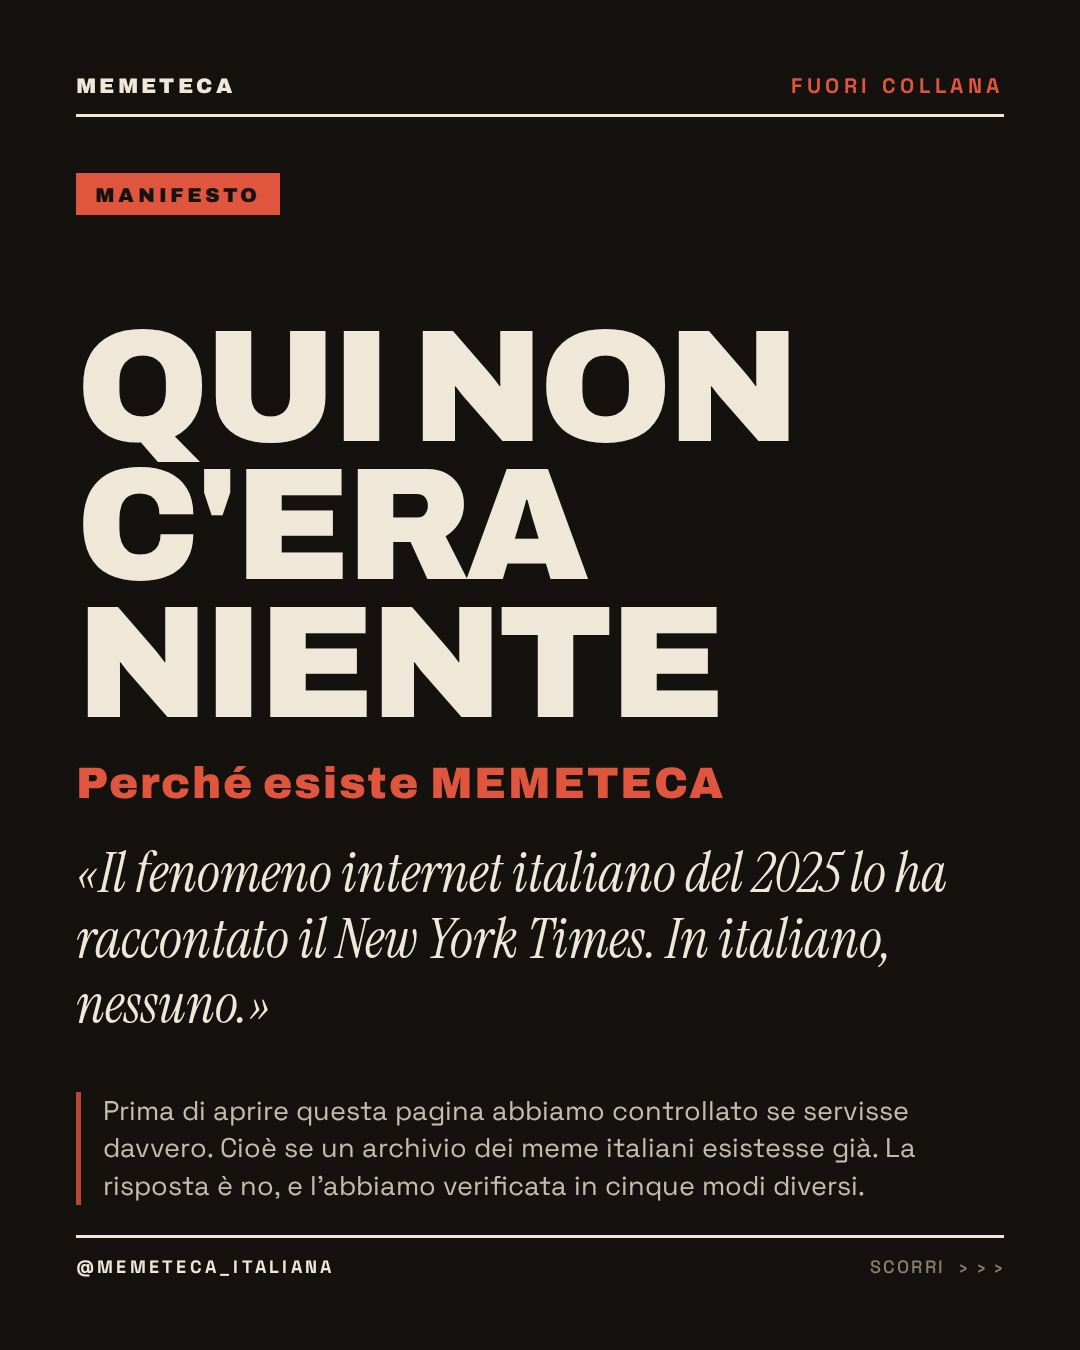
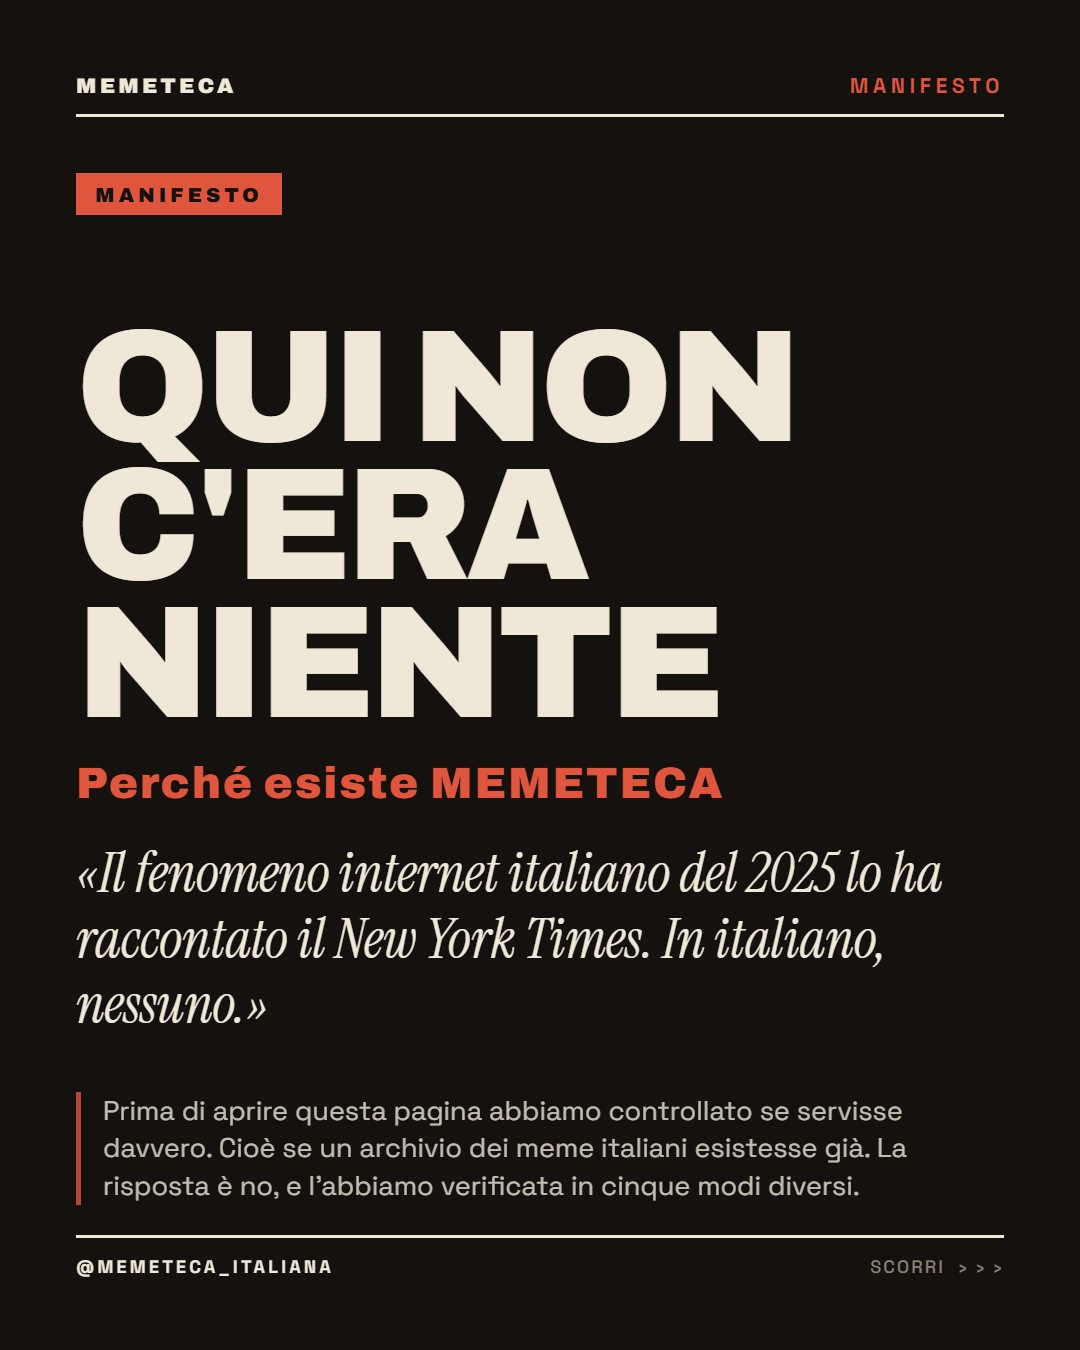
manifesto: dichiarazione del metodo, etichetta -Manifesto- al posto di -Fuori collana-, titolo di slide 2 che non si comprime piu

diff --git a/agente/bonus.py b/agente/bonus.py
@@ -61,9 +61,10 @@ def caption(d):
         parti += [b["titolo"].upper(), b["testo"], ""]
     if d.get("riquadro"):
         parti += [d["riquadro"]["testo"], ""]
-    parti += [d["chiusura"], "",
-              "Mandala a chi se la ricorda.", "",
-              f"— Fuori collana · Fonti: {' · '.join(d['fonti'])}",
+    parti += [d["chiusura"], ""]
+    if d.get("congedo"):
+        parti += [d["congedo"], ""]
+    parti += [f"— {collana(d)} · Fonti: {' · '.join(d['fonti'])}",
               f"Segui {BRAND['handle']}", "",
               " ".join(d["hashtag"][:5])]
     return "\n".join(parti)
@@ -97,6 +98,13 @@ def _css():
             .replace("opacity:.06", "opacity:.10"))
 
 
+def collana(d):
+    """L'etichetta in alto a destra. Il manifesto non e' «fuori collana»:
+    e' il post che spiega la collana, e scriverci sopra il contrario
+    sarebbe l'unico errore che un archivio non puo' permettersi."""
+    return d.get("collana", "Fuori collana")
+
+
 def _testata(dx):
     return (f'<div class="testata z"><span class="marchio">{BRAND["nome"]}</span>'
             f'<span class="num">{dx}</span></div>')
@@ -111,7 +119,7 @@ def slide_1(d):
                  f'color:{C["rosso"]};">{grafica._e(d["sottotitolo"])}</div>')
     return f"""<div class="slide">
   <div class="grana"></div>
-  {_testata("Fuori collana")}
+  {_testata(collana(d))}
   <div class="z" style="margin-top:56px;">
     <span class="chip">{grafica._e(d['etichetta'])}</span></div>
   <div class="z" style="flex:1;min-height:44px;"></div>
@@ -147,10 +155,10 @@ def slide_2(d):
                f'style="height:170px;">{grafica._e(d["riquadro"]["testo"])}</div></div>')
     return f"""<div class="slide">
   <div class="grana"></div>
-  {_testata("Fuori collana")}
-  <div class="z etichetta" style="margin:32px 0 6px;">Fuori collana</div>
-  <h2 class="z titolone" data-fit="66" data-min="30"
-      style="height:150px;margin-bottom:16px;">{grafica._e(d['titolo'])}</h2>
+  {_testata(collana(d))}
+  <div class="z etichetta" style="margin:32px 0 6px;">{grafica._e(collana(d))}</div>
+  <h2 class="z titolone" data-fit="66" data-min="38"
+      style="height:150px;flex:none;margin-bottom:36px;">{grafica._e(d['titolo'])}</h2>
   <div class="z" style="flex:1;display:flex;flex-direction:column;
        padding-bottom:22px;">
     <div style="display:flex;flex-direction:column;gap:38px;">{corpo}</div>
@@ -171,7 +179,7 @@ def slide_3(d):
              f'{grafica._e(d["chiusura"])}</div></div>')
     return f"""<div class="slide">
   <div class="grana"></div>
-  {_testata("Fuori collana")}
+  {_testata(collana(d))}
   <div class="z" style="flex:1;display:flex;flex-direction:column;
        justify-content:space-between;padding:38px 0 22px;">
     {corpo}
@@ -213,6 +221,7 @@ DATI_ESEMPIO = {
     "slug": "guccini",
     "titolo": "FRANCESCO GUCCINI",
     "sottotitolo": "1940 — 2026",
+    "congedo": "Mandala a chi se la ricorda.",
     "etichetta": "In memoria",
     "occhiello": "«Anche Dante è stato letto da cani e porci»",
     "apertura": "Un meme su Guccini non esiste. In compenso esiste il contrario: "

diff --git a/agente/manifesto.py b/agente/manifesto.py
@@ -31,6 +31,7 @@ QUI = pathlib.Path(__file__).parent
 
 MANIFESTO = {
     "slug": "manifesto",
+    "collana": "Manifesto",
     "etichetta": "Manifesto",
     "titolo": "QUI NON C'ERA NIENTE",
     "sottotitolo": "Perché esiste MEMETECA",
@@ -62,7 +63,10 @@ MANIFESTO = {
                      "affermazione regge su almeno due fonti indipendenti, e le "
                      "fonti sono scritte in fondo a ogni post. Due schede al "
                      "giorno. La domenica è monografica: TV e pubblicità, che in "
-                     "Italia sono la miniera da cui viene metà di tutto.",
+                     "Italia sono la miniera da cui viene metà di tutto. Le schede le "
+                     "scriviamo con l'intelligenza artificiale, e lo "
+                     "dichiariamo: qui, e sull'etichetta del profilo. "
+                     "Quello che non deleghiamo è la verifica.",
         },
         {
             "titolo": "Cosa non facciamo",

diff --git a/agente/grafica.py b/agente/grafica.py
@@ -235,8 +235,8 @@ def slide_scheda(m):
   <!-- Instagram può far partire il carosello dalla slide 2 («seconda chance»):
        quindi la 2 deve reggere da sola, con il nome del meme in evidenza. -->
   <div class="z etichetta" style="margin:32px 0 6px;">La scheda</div>
-  <h2 class="z titolone" data-fit="66" data-min="30"
-      style="height:150px;margin-bottom:22px;">{_e(m['titolo'])}</h2>
+  <h2 class="z titolone" data-fit="66" data-min="38"
+      style="height:150px;flex:none;margin-bottom:22px;">{_e(m['titolo'])}</h2>
   <div class="z" style="flex:1;display:flex;flex-direction:column;
        justify-content:space-between;padding-bottom:22px;">{blocchi}</div>
   <div class="pie z"><span><b>{BRAND['handle']}</b></span><span>{_e(m['anno'])}</span></div>
